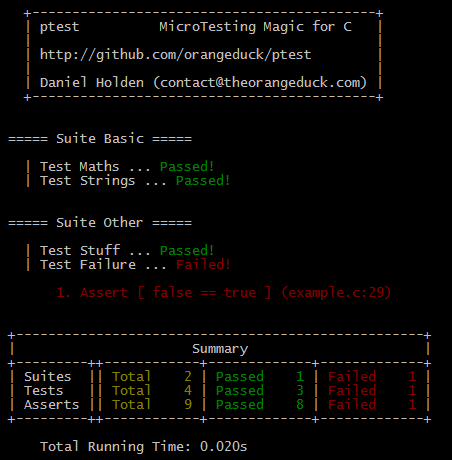
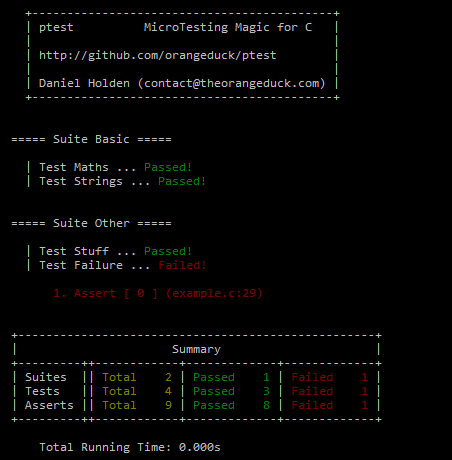
Updated for ANSIness

diff --git a/ptest.c b/ptest.c
@@ -8,12 +8,20 @@
 
 /* Globals */
 
-#define MAX_NAME 512
-#define MAX_ERROR 2048
-#define MAX_TESTS 2048
+enum {
+  MAX_NAME = 512
+};
 
-static bool test_passing = false;
-static bool suite_passing = false;
+enum {
+  MAX_ERROR = 2048
+};
+
+enum {
+  MAX_TESTS = 2048
+};
+
+static int test_passing = 0;
+static int suite_passing = 0;
 
 /* Colors */
 
@@ -33,7 +41,7 @@ enum {
   LIGHT_RED     = 0xC,
   LIGHT_PURPLE  = 0xD,
   LIGHT_YELLOW  = 0xE,
-  LIGHT_WHITE   = 0xF,
+  LIGHT_WHITE   = 0xF
 };
 
 #ifdef _WIN32
@@ -84,7 +92,7 @@ static char assert_err[MAX_ERROR];
 static char assert_err_buff[MAX_ERROR];
 static int assert_err_num = 0;
 
-void pt_assert_run(bool result, const char* expr, const char* func, const char* file, int line) {
+void pt_assert_run(int result, const char* expr, const char* func, const char* file, int line) {
   
   num_asserts++;
   test_passing = test_passing && result;
@@ -102,7 +110,7 @@ void pt_assert_run(bool result, const char* expr, const char* func, const char* 
 
 static void ptest_signal(int sig) {
   
-  test_passing = false;
+  test_passing = 0;
   
   switch( sig ) {
     case SIGFPE:  sprintf(assert_err_buff, "        %i. Division by Zero\n", assert_err_num+1); break;
@@ -125,25 +133,25 @@ static void ptest_signal(int sig) {
 
 static void pt_title_case(char* output, const char* input) {
   
-  bool space = true;
+  int space = 1;
+  unsigned int i;
   
   strcpy(output, input);
   
-  unsigned int i;
   for(i = 0; i < strlen(output); i++) {
     
     if (output[i] == '_' || output[i] == ' ') {
-      space = true;
+      space = 1;
       output[i] = ' ';
       continue;
     } 
     
     if (space && output[i] >= 'a' && output[i] <= 'z') {
+      space = 0;
       output[i] = output[i] - 32;
       continue;
     }
     
-    space = false;
   }
   
 }
@@ -162,6 +170,8 @@ static int num_tests_fails  = 0;
 
 void pt_add_test(void (*func)(void), const char* name, const char* suite) {
   
+  test_t test;
+
   if (num_tests == MAX_TESTS) {
     printf("ERROR: Exceeded maximum test count of %i!\n", MAX_TESTS); abort();
   }
@@ -174,7 +184,6 @@ void pt_add_test(void (*func)(void), const char* name, const char* suite) {
     printf("ERROR: Test suite '%s' too long (Maximum is %i characters)\n", suite, MAX_NAME); abort();
   }
   
-  test_t test;
   test.func = func;
   pt_title_case(test.name, name);
   pt_title_case(test.suite, suite);
@@ -202,6 +211,9 @@ static char current_suite[MAX_NAME];
 
 int pt_run(void) {
   
+  unsigned int i;
+  double total;
+
   printf("    \n");
   printf("    +-------------------------------------------+\n");
   printf("    | ptest          MicroTesting Magic for C   |\n");
@@ -218,7 +230,6 @@ int pt_run(void) {
   start = clock();
   strcpy(current_suite, "");
   
-  unsigned int i;
   for(i = 0; i < num_tests; i++) {
     
     test_t test = tests[i];
@@ -235,14 +246,14 @@ int pt_run(void) {
         }
       }
     
-      suite_passing = true;
+      suite_passing = 1;
       strcpy(current_suite, test.suite);
       printf("\n\n  ===== %s =====\n\n", current_suite);
     }
     
     /* Run Test */
     
-    test_passing = true;
+    test_passing = 1;
     strcpy(assert_err, "");
     strcpy(assert_err_buff, "");
     assert_err_num = 0;
@@ -293,7 +304,7 @@ int pt_run(void) {
   printf("  +---------++------------+-------------+-------------+\n");
   printf("  \n");
   
-  double total = (double)(end - start) / CLOCKS_PER_SEC;
+  total = (double)(end - start) / CLOCKS_PER_SEC;
   
   printf("      Total Running Time: %0.3fs\n\n", total);
   

diff --git a/ptest.h b/ptest.h
@@ -1,16 +1,18 @@
 #ifndef ptest_h
 #define ptest_h
 
-#include <stdbool.h>
 #include <string.h>
 
 #define PT_SUITE(name) void name(void)
-#define PT_TEST(name) auto void name(void); pt_add_test(name, #name, __func__); void name(void) 
 
-#define PT_ASSERT(expr) pt_assert_run((bool)(expr), #expr, __func__, __FILE__, __LINE__)
+#define PT_FUNC(name) static void name(void)
+#define PT_REG(name) pt_add_test(name, #name, __func__)
+#define PT_TEST(name) auto void name(void); PT_REG(name); void name(void)
+
+#define PT_ASSERT(expr) pt_assert_run((int)(expr), #expr, __func__, __FILE__, __LINE__)
 #define PT_ASSERT_STR_EQ(fst, snd) pt_assert_run(strcmp(fst, snd) == 0, "strcmp( " #fst ", " #snd " ) == 0", __func__, __FILE__, __LINE__)
 
-void pt_assert_run(bool result, const char* expr, const char* func, const char* file, int line);
+void pt_assert_run(int result, const char* expr, const char* func, const char* file, int line);
 
 void pt_add_test(void (*func)(void), const char* name, const char* suite);
 void pt_add_suite(void (*func)(void));

diff --git a/example.c b/example.c
@@ -22,11 +22,11 @@ PT_SUITE(suite_other) {
   PT_TEST(test_stuff) { 
     PT_ASSERT(1);
     PT_ASSERT(!0);
-    PT_ASSERT("string");
+    PT_ASSERT("string" != NULL);
   }
   
   PT_TEST(test_failure) {
-    PT_ASSERT(false);
+    PT_ASSERT(0);
   }  
 }
 

diff --git a/README.md b/README.md
@@ -33,11 +33,11 @@ PT_SUITE(suite_other) {
   PT_TEST(test_stuff) { 
     PT_ASSERT(1);
     PT_ASSERT(!0);
-    PT_ASSERT("string");
+    PT_ASSERT("string" != NULL);
   }
   
   PT_TEST(test_failure) {
-    PT_ASSERT(false == true);
+    PT_ASSERT(0);
   }  
 }
 
@@ -78,11 +78,11 @@ void test_strings(void) {
 void test_stuff(void) { 
   PT_ASSERT(1);
   PT_ASSERT(!0);
-  PT_ASSERT("string");
+  PT_ASSERT("string" != NULL);
 }
 
 void test_failure(void) {
-  PT_ASSERT(false == true);
+  PT_ASSERT(0);
 }
 
 void suite_basic(void) {
